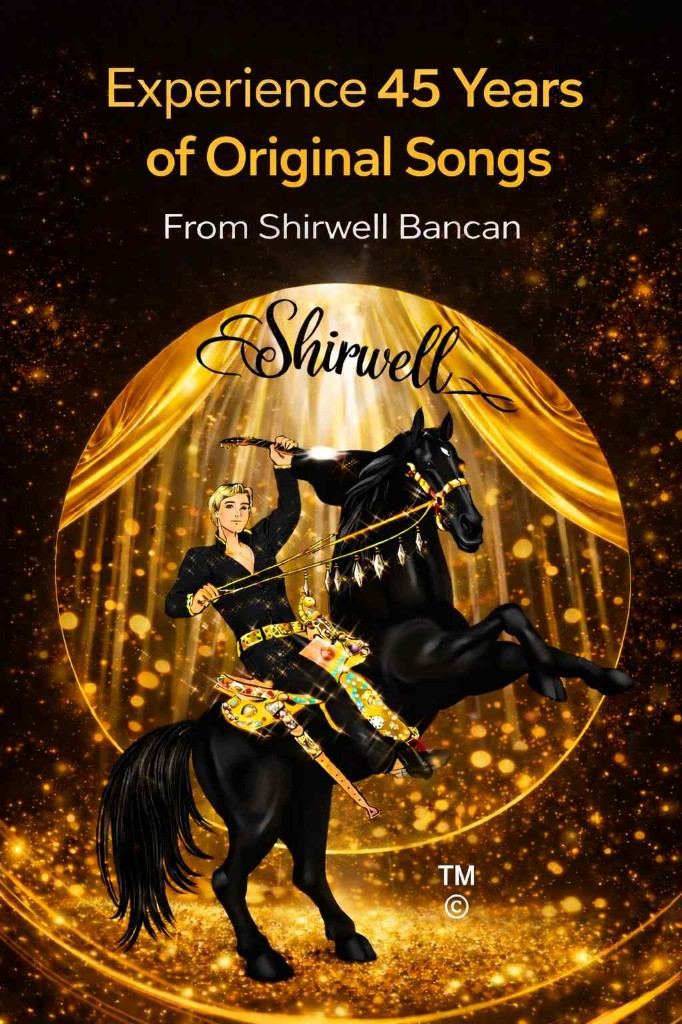
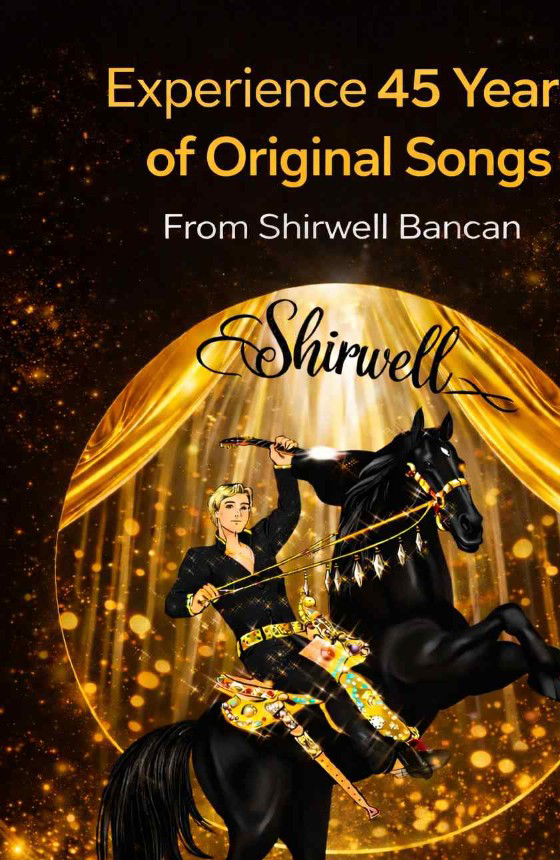
update

diff --git a/src/config/ads.ts b/src/config/ads.ts
@@ -23,19 +23,25 @@ export const DEFAULT_ADSENSE_CLIENT_ID = "ca-pub-2495432679632375";
 export const ADSENSE_CLIENT_ID =
   process.env.NEXT_PUBLIC_ADSENSE_CLIENT_ID?.trim() || DEFAULT_ADSENSE_CLIENT_ID;
 
-/** Display unit — "Enterprices" / Enterprises (auto, full-width responsive). */
+/** Primary display slot from env — other units fall back to this when unset. */
+export const ADSENSE_SLOT_BANNER =
+  process.env.NEXT_PUBLIC_ADSENSE_SLOT_BANNER?.trim() || "";
+
+/** Display unit — full-width responsive (Enterprises-style). */
 export const ADSENSE_SLOT_ENTERPRISES =
-  process.env.NEXT_PUBLIC_ADSENSE_SLOT_ENTERPRISES?.trim() || "1200415498";
+  process.env.NEXT_PUBLIC_ADSENSE_SLOT_ENTERPRISES?.trim() ||
+  ADSENSE_SLOT_BANNER ||
+  "1200415498";
 
 /** Fixed 360×300 display unit. */
 export const ADSENSE_SLOT_BOX =
-  process.env.NEXT_PUBLIC_ADSENSE_SLOT_BOX?.trim() || "1844130903";
+  process.env.NEXT_PUBLIC_ADSENSE_SLOT_BOX?.trim() ||
+  process.env.NEXT_PUBLIC_ADSENSE_SLOT_BOX_AD?.trim() ||
+  ADSENSE_SLOT_BANNER ||
+  "1844130903";
 
 export const ADSENSE_BOX_WIDTH = 360;
 export const ADSENSE_BOX_HEIGHT = 300;
-
-export const ADSENSE_SLOT_BANNER =
-  process.env.NEXT_PUBLIC_ADSENSE_SLOT_BANNER?.trim() || ADSENSE_SLOT_ENTERPRISES;
 
 export function isAdsenseConfigured(): boolean {
   return Boolean(
@@ -46,7 +52,10 @@ export function isAdsenseConfigured(): boolean {
 }
 
 export function isAdsenseUnitConfigured(): boolean {
-  return isAdsenseConfigured() && ADSENSE_SLOT_BANNER.length > 0;
+  return (
+    isAdsenseConfigured() &&
+    Boolean(ADSENSE_SLOT_BANNER || ADSENSE_SLOT_ENTERPRISES || ADSENSE_SLOT_BOX)
+  );
 }
 
 /** Test ads in dev, or when NEXT_PUBLIC_ADSENSE_TEST=true (use before site approval). */

diff --git a/src/components/legal/brand-photo-frame.tsx b/src/components/legal/brand-photo-frame.tsx
@@ -1,5 +1,4 @@
 import Image, { type ImageProps } from "next/image";
-import { BrandLegalMarks } from "@/components/legal/brand-legal-marks";
 
 type BrandPhotoFrameProps = Omit<ImageProps, "fill"> & {
   frameClassName?: string;
@@ -8,9 +7,7 @@ type BrandPhotoFrameProps = Omit<ImageProps, "fill"> & {
   imagePosition?: string;
 };
 
-/**
- * Image frame with inset crop and a clear bottom-right margin for TM / © marks.
- */
+/** Full-bleed image frame for marketing photos. */
 export function BrandPhotoFrame({
   frameClassName = "",
   imageClassName = "",
@@ -20,18 +17,13 @@ export function BrandPhotoFrame({
   ...imageProps
 }: BrandPhotoFrameProps) {
   return (
-    <div className={`relative ${frameClassName} ${className ?? ""}`}>
-      <div className="absolute inset-x-2 top-2 bottom-14 right-12 overflow-hidden rounded-lg bg-zinc-800/40 sm:inset-x-3 sm:top-3 sm:bottom-16 sm:right-14">
-        <Image
-          alt={alt}
-          fill
-          className={`object-cover ${imagePosition} ${imageClassName}`}
-          {...imageProps}
-        />
-      </div>
-      <div className="pointer-events-none absolute bottom-2 right-2 z-10 rounded-md bg-black/50 px-1.5 py-1 backdrop-blur-sm">
-        <BrandLegalMarks variant="inline" className="relative" />
-      </div>
+    <div className={`relative overflow-hidden ${frameClassName} ${className ?? ""}`}>
+      <Image
+        alt={alt}
+        fill
+        className={`object-cover ${imagePosition} ${imageClassName}`}
+        {...imageProps}
+      />
     </div>
   );
 }

diff --git a/src/app/about/page.tsx b/src/app/about/page.tsx
@@ -5,7 +5,6 @@ import { MarketingHeader } from "@/components/shirwell/marketing-header";
 import { BottomNav } from "@/components/shirwell/bottom-nav";
 import { ContentPageAds } from "@/components/ads/content-page-ads";
 import { JsonLdScript } from "@/components/seo/json-ld-script";
-import { BrandLegalMarks } from "@/components/legal/brand-legal-marks";
 import { BUSINESS_LOCATION, SUPPORT_EMAIL } from "@/config/contact";
 import { absoluteUrl, getBrandFaqJsonLd, HOME_PATH, SITE_NAME } from "@/lib/seo";
 
@@ -40,12 +39,11 @@ export default function AboutPage() {
               <Image
                 src="/about/shirwell-bancan-poster.png"
                 alt={`${SITE_NAME} — Experience 45 years of original songs`}
-                width={682}
-                height={1024}
+                width={560}
+                height={860}
                 className="h-auto w-full rounded-lg shadow-[0_0_48px_rgba(255,193,7,0.12)]"
                 priority
               />
-              <BrandLegalMarks />
             </div>
             <div className="mt-8 text-center">
               <h1 className="font-serif text-2xl font-semibold text-[#FFC107] sm:text-3xl">

diff --git a/src/app/layout.tsx b/src/app/layout.tsx
@@ -17,7 +17,6 @@ import {
   GoogleTagManagerHead,
   GoogleTagManagerNoScript,
 } from "@/components/analytics/google-tag-manager";
-import { SiteMarks } from "@/components/legal/site-marks";
 import { LazyAiSupportChat } from "@/components/support/lazy-ai-support-chat";
 import { SwgHeadScript } from "@/components/subscriptions/swg-head-script";
 import { AppleMusicMiniPlayer } from "@/components/shirwell/apple-music-mini-player";
@@ -75,7 +74,6 @@ export default async function RootLayout({
         <PlayerProvider>
           <CartProvider>
           <div className="flex min-h-full min-w-0 flex-col overflow-x-clip">
-            <SiteMarks />
             <div className="flex-1">{children}</div>
             <SiteChrome>
               <SiteFooter />

diff --git a/src/components/shirwell/music-page-content.tsx b/src/components/shirwell/music-page-content.tsx
@@ -21,7 +21,6 @@ import { usePlayer } from "@/contexts/player-context";
 import { getPlayerArtworkSrc } from "@/lib/player-artwork";
 import { formatTime } from "@/lib/player/format-time";
 import { BottomNav } from "./bottom-nav";
-import { BrandLegalMarks } from "@/components/legal/brand-legal-marks";
 import { AdSenseBoxUnit, AdSenseEnterprisesUnit, AdSenseLabel } from "@/components/ads/adsense-unit";
 import { ContentPageAdTop } from "@/components/ads/content-page-ads";
 
@@ -176,7 +175,6 @@ export function MusicPageContent({ songs }: MusicPageContentProps) {
                   sizes="340px"
                   priority
                 />
-                <BrandLegalMarks year={new Date().getFullYear()} />
               </div>
             </div>
 

diff --git a/src/components/shirwell/featured-song-card.tsx b/src/components/shirwell/featured-song-card.tsx
@@ -5,7 +5,6 @@ import { useState } from "react";
 import { Heart, Play, Repeat, Shuffle } from "lucide-react";
 import type { Song } from "@/types/song";
 import { getPlayerArtworkSrc } from "@/lib/player-artwork";
-import { BrandLegalMarks } from "@/components/legal/brand-legal-marks";
 
 interface FeaturedSongCardProps {
   song: Song;
@@ -56,7 +55,6 @@ export function FeaturedSongCard({
           <span className="tabular-nums tracking-tight">{timeLabel}</span>
           <Repeat className="h-3.5 w-3.5 shrink-0 text-white/70" strokeWidth={2} />
         </div>
-        <BrandLegalMarks />
       </div>
 
       <h3 className="text-lg font-bold leading-snug text-white">{title}</h3>

diff --git a/src/components/shirwell/site-footer.tsx b/src/components/shirwell/site-footer.tsx
@@ -5,7 +5,6 @@ import Link from "next/link";
 import { usePathname } from "next/navigation";
 import { Crown } from "lucide-react";
 import { hasBottomNav } from "@/lib/mobile-chrome";
-import { BrandLegalMarks } from "@/components/legal/brand-legal-marks";
 import { getPublicSocialLinks } from "@/lib/social-links";
 import { SITE_NAME } from "@/lib/seo";
 
@@ -101,7 +100,6 @@ export function SiteFooter() {
                   className="object-cover object-center"
                   sizes="220px"
                 />
-                <BrandLegalMarks />
               </div>
             </div>
 

diff --git a/src/lib/seo.ts b/src/lib/seo.ts
@@ -268,7 +268,7 @@ export function createRootMetadata(): Metadata {
       icon: [
         { url: SITE_FAVICON_PATH, sizes: "512x512", type: "image/png" },
         { url: "/favicon-48.png", sizes: "48x48", type: "image/png" },
-        { url: SITE_LOGO_PATH, sizes: "682x1024", type: "image/png" },
+        { url: SITE_LOGO_PATH, sizes: "560x860", type: "image/png" },
       ],
       apple: [{ url: SITE_FAVICON_PATH, sizes: "180x180", type: "image/png" }],
       shortcut: SITE_FAVICON_PATH,

diff --git a/src/lib/adsense-runtime.ts b/src/lib/adsense-runtime.ts
@@ -36,9 +36,9 @@ export function fillUnfilledAdSlots(root: ParentNode = document): number {
 
   let filled = 0;
   slots.forEach((ins) => {
-    if (ins.dataset.adFilled === "1") return;
+    if (ins.dataset.adRequested === "1") return;
     pushAdSlot();
-    ins.dataset.adFilled = "1";
+    ins.dataset.adRequested = "1";
     filled += 1;
   });
 

diff --git a/src/components/ads/adsense-unit.tsx b/src/components/ads/adsense-unit.tsx
@@ -60,7 +60,7 @@ export function AdSenseUnit({
 }: AdSenseUnitProps) {
   return (
     <AdSenseUnitInner
-      slot={slotProp ?? ADSENSE_SLOT_BANNER}
+      slot={slotProp ?? (ADSENSE_SLOT_BANNER || ADSENSE_SLOT_ENTERPRISES)}
       className={className}
       format={format}
       minHeight={minHeight}
